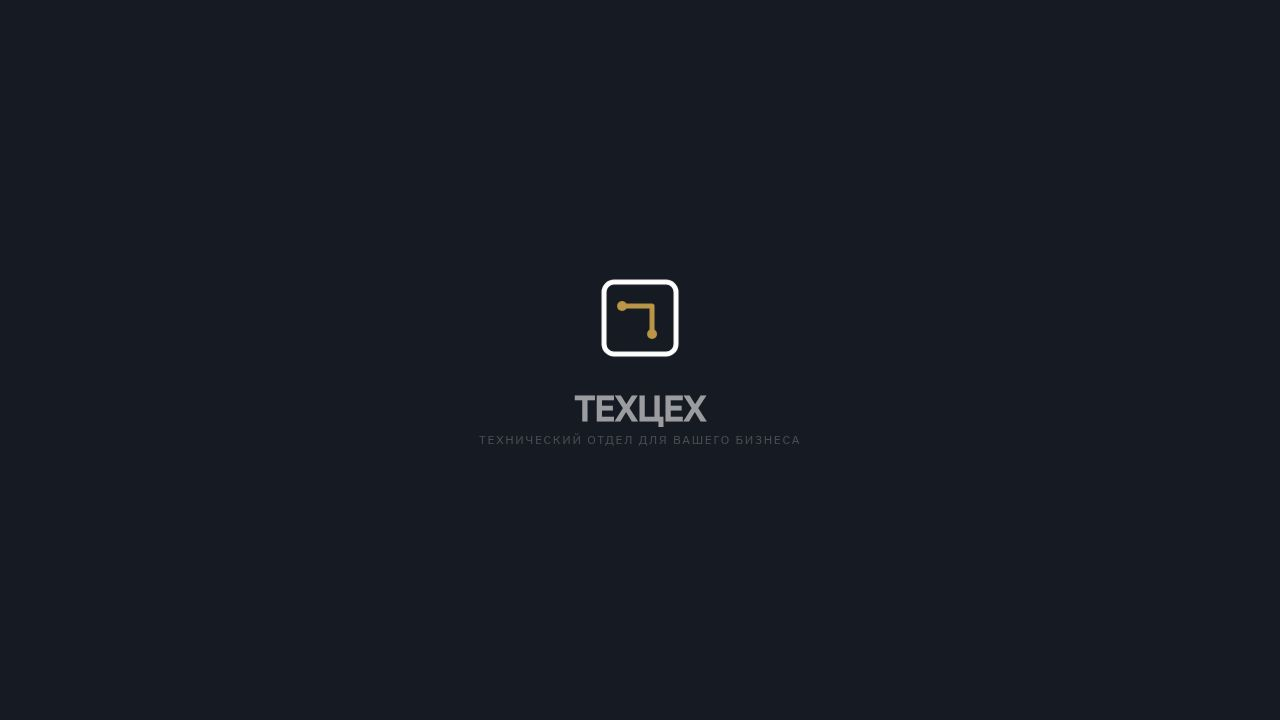
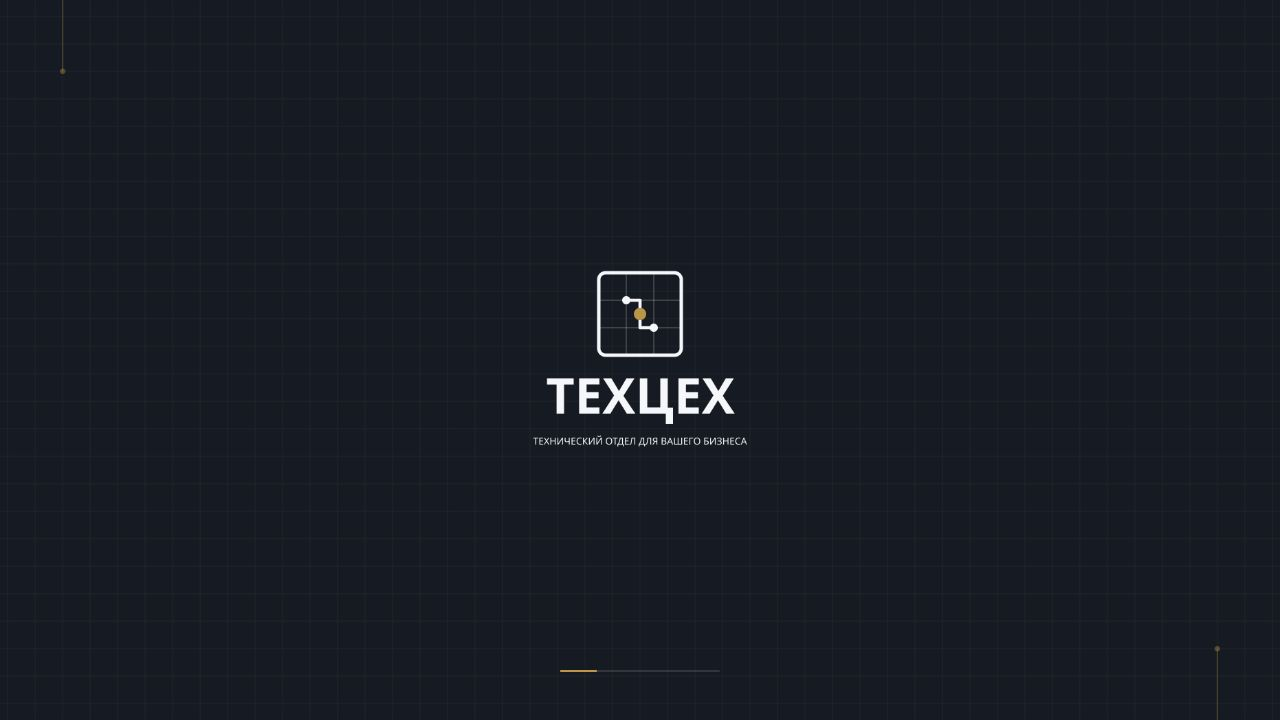
Update website cases with new project details and status indicators
Refactor Cases.tsx to include new case data, types, and update existing entries, marking placeholders for metrics and launch amounts.

Replit-Commit-Author: Agent
Replit-Commit-Session-Id: b0994b52-7fd0-4174-8498-7ff013129bb2
Replit-Commit-Checkpoint-Type: full_checkpoint
Replit-Commit-Event-Id: 1db957c0-e299-430f-b529-ddec309ca861
Replit-Commit-Screenshot-Url: https://storage.googleapis.com/screenshot-production-us-central1/7416753f-5ab5-4d69-92cb-3a8d25483ff7/b0994b52-7fd0-4174-8498-7ff013129bb2/iytjzzp
Replit-Helium-Checkpoint-Created: true

Changed region(s): [[0.4062, 0.3667, 0.5938, 0.6417]]

diff --git a/artifacts/techtsekh/src/components/Cases.tsx b/artifacts/techtsekh/src/components/Cases.tsx
@@ -8,50 +8,123 @@ import {
   DialogDescription,
 } from "@/components/ui/dialog";
 
-const casesData = [
+/* ─── Типы ─── */
+interface CaseDetail { label: string; value: string; fake?: boolean }
+interface CaseItem {
+  id: number;
+  client: string;
+  project?: string;
+  status: 'done' | 'wip';
+  metrics: string;
+  metricLabel: string;
+  metricFake?: boolean;
+  gradient: string;
+  tags: string[];
+  description: string;
+  details: CaseDetail[];
+}
+
+/*
+  * — заглушка, реальные данные будут добавлены позже.
+  Все такие значения помечены fake: true / metricFake: true.
+*/
+const casesData: CaseItem[] = [
   {
     id: 1,
-    title: 'Система автоворонок для онлайн-школы',
-    metrics: '+234%',
-    metricLabel: 'рост конверсии',
-    gradient: 'from-[#1F3A5F]/60 to-[#1A2236]/40',
-    description: 'Разработали и внедрили сложную систему автоворонок с сегментацией пользователей по источнику, интересам и стадии цикла. Настроили интеграции с AmoCRM и платёжными системами. Запустили Telegram-бота для прогрева аудитории и поддержки. Конверсия в покупку выросла с 4% до 13% за 2 месяца.',
+    client: 'Аюна Бабуева',
+    status: 'done',
+    metrics: '*₽1.4 млн*',
+    metricLabel: 'запуск',
+    metricFake: true,
+    gradient: 'from-[#1F3A5F]/70 to-[#1A2236]/50',
+    tags: ['Сайт', 'Автоворонка', 'Онлайн-касса'],
+    description:
+      'Разработали лендинг под запуск, собрали автоворонку в Telegram с прогревом и серией касаний, подключили онлайн-кассу по 54-ФЗ. Вся цепочка — от первого клика до оплаты — работает без ручного участия.',
     details: [
-      { label: 'Срок', value: '3 недели' },
-      { label: 'Инструменты', value: 'Telegram Bot, AmoCRM, SendPulse' },
-      { label: 'Результат', value: '+234% конверсия' },
+      { label: 'Услуги', value: 'Сайт, автоворонка, онлайн-касса' },
+      { label: 'Запуск', value: '*₽1.4 млн*', fake: true },
+      { label: 'Конверсия воронки', value: '*+210%*', fake: true },
     ],
   },
   {
     id: 2,
-    title: 'B2B-портал завода металлоконструкций',
-    metrics: '×3.5',
-    metricLabel: 'рост заявок',
-    gradient: 'from-[#162032]/60 to-[#1F3A5F]/30',
-    description: 'Полный ребрендинг и разработка корпоративного портала с нуля. Внедрили личный кабинет оптового клиента, синхронизацию остатков с 1С в реальном времени и автоматическую генерацию коммерческих предложений в PDF. Сайт стал инструментом продаж, а не визиткой.',
+    client: 'Вера Малыгина',
+    project: 'Фабрика заготовок + Заготовки для здоровья',
+    status: 'done',
+    metrics: '42.9%',
+    metricLabel: 'CTR e-mail',
+    gradient: 'from-[#2A1F1F]/70 to-[#1A2236]/50',
+    tags: ['Сайт', 'Инфопродукт', 'Автоворонка', 'Онлайн-касса', 'E-mail'],
+    description:
+      'Два проекта одного эксперта — комплексная техническая упаковка под ключ. Для «Фабрики заготовок»: сайт, упаковка инфопродукта, автоворонка, онлайн-касса и e-mail рассылки с CTR до 42.9%. Для «Заготовок для здоровья»: полноценный сайт с нуля. Оба проекта запущены синхронно.',
     details: [
-      { label: 'Срок', value: '6 недель' },
-      { label: 'Инструменты', value: '1С интеграция, PDF-генератор, CRM' },
-      { label: 'Результат', value: 'Заявки выросли в 3.5 раза' },
+      { label: 'CTR e-mail', value: 'до 42.9%' },
+      { label: 'Запуски', value: '*X запусков на Y рублей*', fake: true },
+      { label: 'Услуги', value: 'Сайты, автоворонка, e-mail, касса' },
     ],
   },
   {
     id: 3,
-    title: 'Экосистема для сети клиник',
-    metrics: '99.9%',
-    metricLabel: 'uptime сервисов',
-    gradient: 'from-[#1A2A45]/60 to-[#0F1520]/40',
-    description: 'Объединили разрозненные системы 15 клиник в единую информационную среду. Разработали удобный интерфейс онлайн-записи с интеграцией в МИС. Автоматические напоминания пациентам снизили процент неявок на 40%. Все сервисы работают на гарантированном uptime 99.9%.',
+    client: 'Анна Позднякова',
+    project: 'WOMOMS',
+    status: 'done',
+    metrics: '*₽860к*',
+    metricLabel: 'запуск',
+    metricFake: true,
+    gradient: 'from-[#1A2A1A]/70 to-[#1A2236]/50',
+    tags: ['Сайт', 'Автоворонка', 'Онлайн-касса'],
+    description:
+      'Разработали сайт для сообщества мам WOMOMS, собрали автоворонку с сегментацией аудитории и подключили онлайн-кассу. Запуск прошёл в срок без технических сбоев.',
     details: [
-      { label: 'Срок', value: '8 недель' },
-      { label: 'Инструменты', value: 'МИС интеграция, SMS, Telegram' },
-      { label: 'Результат', value: '-40% неявок, 99.9% uptime' },
+      { label: 'Услуги', value: 'Сайт, автоворонка, онлайн-касса' },
+      { label: 'Запуск', value: '*₽860к*', fake: true },
+      { label: 'Конверсия воронки', value: '*+180%*', fake: true },
     ],
+  },
+  {
+    id: 4,
+    client: 'RASKATOVA FIT',
+    status: 'wip',
+    metrics: '—',
+    metricLabel: 'В работе',
+    gradient: 'from-[#1A1A2A]/60 to-[#111122]/40',
+    tags: ['Сайт'],
+    description: 'Разработка сайта. Проект в активной фазе.',
+    details: [],
+  },
+  {
+    id: 5,
+    client: 'ТЕХЦЕХ',
+    project: 'Собственный сайт + ИИ-ассистент',
+    status: 'wip',
+    metrics: '—',
+    metricLabel: 'В работе',
+    gradient: 'from-[#0B2B5E]/40 to-[#1A2236]/30',
+    tags: ['Сайт', 'ИИ-ассистент'],
+    description: 'Разработка собственного сайта и ИИ-ассистента для автоматизации входящих обращений.',
+    details: [],
   },
 ];
 
+function FakeMark({ children }: { children: React.ReactNode }) {
+  return (
+    <span title="Заглушка — данные уточняются" className="opacity-60 italic">
+      {String(children).replace(/\*/g, '')}
+    </span>
+  );
+}
+
+function MetricDisplay({ value, fake }: { value: string; fake?: boolean }) {
+  const clean = value.replace(/\*/g, '');
+  if (fake) return <FakeMark>{clean}</FakeMark>;
+  return <>{clean}</>;
+}
+
 export default function Cases() {
-  const [selectedCase, setSelectedCase] = useState<typeof casesData[0] | null>(null);
+  const [selectedCase, setSelectedCase] = useState<CaseItem | null>(null);
+
+  const done = casesData.filter((c) => c.status === 'done');
+  const wip  = casesData.filter((c) => c.status === 'wip');
 
   return (
     <section id="cases" className="py-24 bg-[hsl(var(--bg-dark))] noise-bg relative overflow-hidden">
@@ -75,8 +148,9 @@ export default function Cases() {
           <h2 className="text-4xl md:text-5xl font-heading font-bold text-white">Наши работы</h2>
         </motion.div>
 
-        <div className="grid md:grid-cols-3 gap-6">
-          {casesData.map((item, index) => (
+        {/* Завершённые кейсы */}
+        <div className="grid md:grid-cols-3 gap-6 mb-8">
+          {done.map((item, index) => (
             <motion.div
               key={item.id}
               initial={{ opacity: 0, y: 20 }}
@@ -86,17 +160,36 @@ export default function Cases() {
               className="glass-card-dark rounded-2xl overflow-hidden group flex flex-col"
               data-testid={`card-case-${item.id}`}
             >
-              <div className={`h-44 w-full bg-gradient-to-br ${item.gradient} relative overflow-hidden flex-shrink-0`}>
-                <div className="absolute bottom-4 left-4">
-                  <div className="text-4xl font-mono text-[hsl(var(--accent-warm))] font-bold">{item.metrics}</div>
-                  <div className="text-sm text-white/60">{item.metricLabel}</div>
+              {/* Metric banner */}
+              <div className={`h-40 w-full bg-gradient-to-br ${item.gradient} relative overflow-hidden flex-shrink-0 flex items-end p-4`}>
+                <div>
+                  <div className="text-4xl font-mono text-[hsl(var(--accent-warm))] font-bold leading-none">
+                    <MetricDisplay value={item.metrics} fake={item.metricFake} />
+                  </div>
+                  <div className="text-sm text-white/60 mt-1">{item.metricLabel}</div>
                 </div>
               </div>
+
+              {/* Body */}
               <div className="p-6 flex flex-col flex-1">
-                <h3 className="text-lg font-heading font-bold text-white mb-3 group-hover:text-[hsl(var(--accent-warm))] transition-colors leading-snug">
-                  {item.title}
-                </h3>
+                <div className="mb-3">
+                  <p className="text-xs font-mono text-white/40 uppercase tracking-widest mb-1">{item.client}</p>
+                  <h3 className="text-base font-heading font-bold text-white group-hover:text-[hsl(var(--accent-warm))] transition-colors leading-snug">
+                    {item.project ?? item.client}
+                  </h3>
+                </div>
+
+                {/* Tags */}
+                <div className="flex flex-wrap gap-1.5 mb-4">
+                  {item.tags.map((t) => (
+                    <span key={t} className="text-[11px] font-mono px-2 py-0.5 rounded bg-white/5 text-white/40 border border-white/8">
+                      {t}
+                    </span>
+                  ))}
+                </div>
+
                 <p className="text-white/50 text-sm line-clamp-2 mb-5 leading-relaxed flex-1">{item.description}</p>
+
                 <button
                   onClick={() => setSelectedCase(item)}
                   data-testid={`button-case-detail-${item.id}`}
@@ -111,35 +204,99 @@ export default function Cases() {
             </motion.div>
           ))}
         </div>
+
+        {/* В работе */}
+        <div className="grid md:grid-cols-2 gap-6">
+          {wip.map((item, index) => (
+            <motion.div
+              key={item.id}
+              initial={{ opacity: 0, y: 16 }}
+              whileInView={{ opacity: 1, y: 0 }}
+              viewport={{ once: true }}
+              transition={{ duration: 0.5, delay: index * 0.1 }}
+              className="glass-card-dark rounded-2xl overflow-hidden flex items-center gap-5 p-5 opacity-70"
+              data-testid={`card-case-${item.id}`}
+            >
+              {/* Пульсирующий индикатор */}
+              <div className="flex-shrink-0 w-10 h-10 rounded-full border border-[hsl(var(--accent-warm))]/30 flex items-center justify-center relative">
+                <span className="absolute w-3 h-3 rounded-full bg-[hsl(var(--accent-warm))]/60 animate-ping" />
+                <span className="w-3 h-3 rounded-full bg-[hsl(var(--accent-warm))]" />
+              </div>
+
+              <div className="flex-1 min-w-0">
+                <p className="text-xs font-mono text-white/35 uppercase tracking-widest mb-0.5">{item.client}</p>
+                <p className="text-white/80 text-sm font-heading font-semibold leading-snug truncate">
+                  {item.project ?? item.client}
+                </p>
+                <div className="flex flex-wrap gap-1.5 mt-2">
+                  {item.tags.map((t) => (
+                    <span key={t} className="text-[11px] font-mono px-2 py-0.5 rounded bg-white/5 text-white/35 border border-white/8">
+                      {t}
+                    </span>
+                  ))}
+                </div>
+              </div>
+
+              <span className="flex-shrink-0 text-xs font-mono text-[hsl(var(--accent-warm))]/70 border border-[hsl(var(--accent-warm))]/25 px-2.5 py-1 rounded-full whitespace-nowrap">
+                В работе
+              </span>
+            </motion.div>
+          ))}
+        </div>
       </div>
 
+      {/* Detail dialog */}
       <Dialog open={!!selectedCase} onOpenChange={(open) => !open && setSelectedCase(null)}>
         <DialogContent className="border-white/10 text-white sm:max-w-2xl" style={{ background: 'hsl(var(--bg-dark))' }}>
           <DialogHeader>
-            <DialogTitle className="font-heading text-2xl text-white pr-6">{selectedCase?.title}</DialogTitle>
+            <DialogTitle className="font-heading text-2xl text-white pr-6">
+              {selectedCase?.project ?? selectedCase?.client}
+            </DialogTitle>
           </DialogHeader>
           <div className="mt-2">
-            <div
-              className={`h-52 w-full rounded-xl bg-gradient-to-br ${selectedCase?.gradient} mb-6 flex items-center justify-center`}
-            >
+            {/* Metric banner */}
+            <div className={`h-44 w-full rounded-xl bg-gradient-to-br ${selectedCase?.gradient} mb-6 flex items-center justify-center`}>
               <div className="text-center">
-                <div className="text-6xl font-mono text-[hsl(var(--accent-warm))] font-bold mb-2">{selectedCase?.metrics}</div>
+                <div className="text-6xl font-mono text-[hsl(var(--accent-warm))] font-bold mb-2">
+                  {selectedCase && <MetricDisplay value={selectedCase.metrics} fake={selectedCase.metricFake} />}
+                </div>
                 <div className="text-white/60">{selectedCase?.metricLabel}</div>
               </div>
             </div>
+
+            {/* Tags */}
+            {selectedCase && (
+              <div className="flex flex-wrap gap-2 mb-4">
+                {selectedCase.tags.map((t) => (
+                  <span key={t} className="text-xs font-mono px-2.5 py-1 rounded bg-white/6 text-white/50 border border-white/10">
+                    {t}
+                  </span>
+                ))}
+              </div>
+            )}
+
             <DialogDescription className="text-white/70 text-base leading-relaxed mb-6">
               {selectedCase?.description}
             </DialogDescription>
-            {selectedCase?.details && (
+
+            {selectedCase?.details && selectedCase.details.length > 0 && (
               <div className="grid grid-cols-3 gap-3 mb-6">
                 {selectedCase.details.map((d) => (
                   <div key={d.label} className="rounded-lg p-3" style={{ background: 'rgba(255,255,255,0.04)', border: '1px solid rgba(255,255,255,0.08)' }}>
                     <div className="text-xs text-white/40 mb-1 font-mono">{d.label}</div>
-                    <div className="text-sm text-white font-medium">{d.value}</div>
+                    <div className="text-sm text-white font-medium">
+                      {d.fake ? <FakeMark>{d.value.replace(/\*/g, '')}</FakeMark> : d.value}
+                    </div>
                   </div>
                 ))}
               </div>
             )}
+
+            {/* Footnote for fake values */}
+            {selectedCase?.details.some((d) => d.fake) || selectedCase?.metricFake ? (
+              <p className="text-xs text-white/25 italic mb-4">* Данные уточняются — указаны ориентировочные значения</p>
+            ) : null}
+
             <div className="flex justify-end">
               <button
                 onClick={() => setSelectedCase(null)}